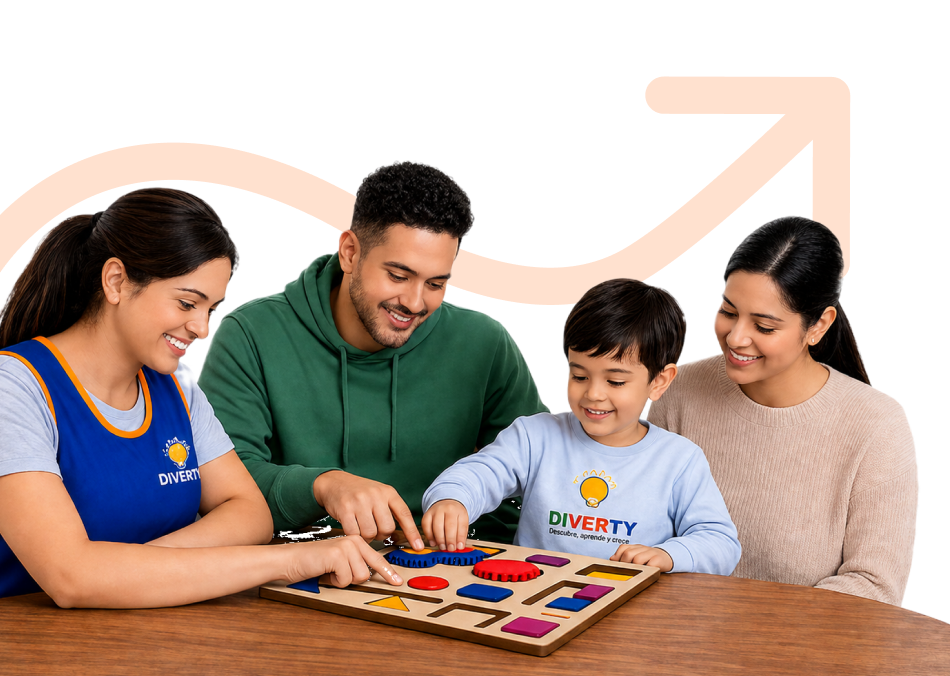
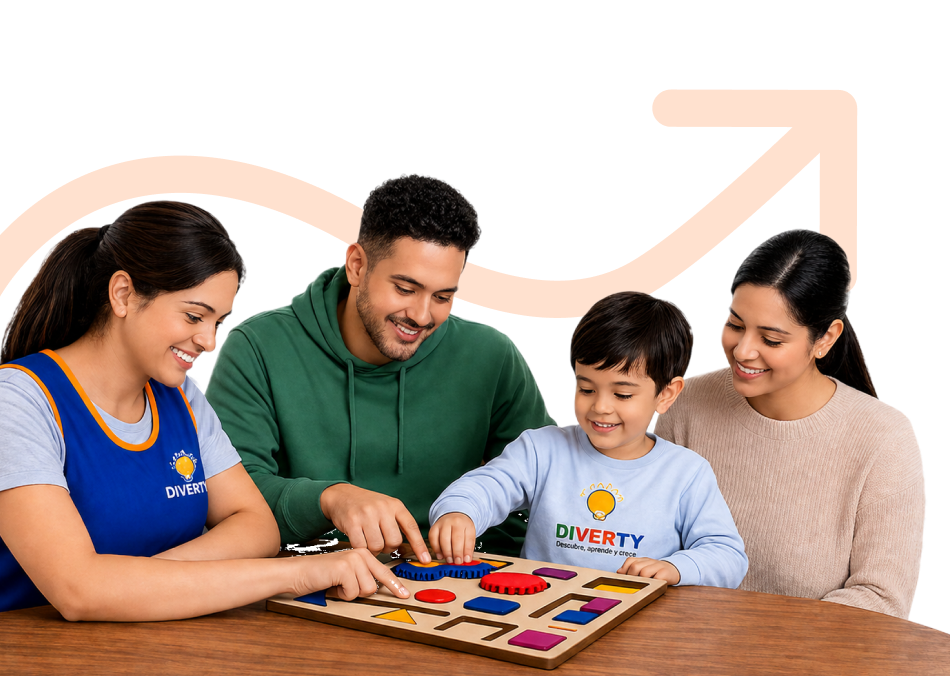
Unificar fondo peach en secciones de Nosotros y actualizar assets.
Aplica el mismo tono #FFF5F0 a Nuestra fundadora e Impacto, y renueva imágenes del hero de Nosotros y la sección de enfoque en inicio.

diff --git a/src/data/nosotrosPage.ts b/src/data/nosotrosPage.ts
@@ -23,6 +23,9 @@ export const nosotrosHero = {
   },
 } as const;
 
+/** Fondo peach de bandas tipo “Impacto que buscamos” / footer. */
+export const NOSOTROS_SECTION_BG_PEACH = "bg-[#FFF5F0]";
+
 export type NosotrosSplitBlock = {
   id: string;
   title: string;
@@ -34,6 +37,8 @@ export type NosotrosSplitBlock = {
   image: { src: string; alt: string };
   /** Si true, la imagen va a la izquierda (segundo bloque del mock). */
   imageLeft: boolean;
+  /** Clase Tailwind del fondo de la sección. */
+  sectionBgClass?: string;
 };
 
 export const nosotrosSplitSections: NosotrosSplitBlock[] = [
@@ -48,6 +53,7 @@ export const nosotrosSplitSections: NosotrosSplitBlock[] = [
       alt: "Docente acompañando a dos niños en una actividad guiada",
     },
     imageLeft: false,
+    sectionBgClass: NOSOTROS_SECTION_BG_PEACH,
   },
   {
     id: "impacto",
@@ -60,6 +66,7 @@ export const nosotrosSplitSections: NosotrosSplitBlock[] = [
       alt: "Madre sosteniendo a un niño sonriente",
     },
     imageLeft: true,
+    sectionBgClass: NOSOTROS_SECTION_BG_PEACH,
   },
   {
     id: "fundadora",
@@ -78,6 +85,7 @@ export const nosotrosSplitSections: NosotrosSplitBlock[] = [
       alt: "Fundadora de Diverty en su espacio de trabajo con laptop y cuaderno",
     },
     imageLeft: false,
+    sectionBgClass: NOSOTROS_SECTION_BG_PEACH,
   },
 ];
 

diff --git a/src/components/nosotros/SplitSection.tsx b/src/components/nosotros/SplitSection.tsx
@@ -1,5 +1,8 @@
 import { motion, useReducedMotion } from "framer-motion";
-import type { NosotrosSplitBlock } from "../../data/nosotrosPage";
+import {
+  NOSOTROS_SECTION_BG_PEACH,
+  type NosotrosSplitBlock,
+} from "../../data/nosotrosPage";
 import {
   defaultViewport,
   fadeInUp,
@@ -26,9 +29,11 @@ export default function SplitSection({ block }: Props) {
       ? slideInLeftSm
       : slideInRightSm;
 
+  const sectionBg = block.sectionBgClass ?? NOSOTROS_SECTION_BG_PEACH;
+
   return (
     <section
-      className="scroll-mt-28 bg-[#FFF5F0] py-14 md:py-20"
+      className={`scroll-mt-28 py-14 md:py-20 ${sectionBg}`}
       aria-labelledby={`nosotros-${block.id}-title`}
     >
       <div className="container">

diff --git a/src/data/familiesHome.ts b/src/data/familiesHome.ts
@@ -2,7 +2,7 @@
 
 import type { CourseTab } from "./estrategia";
 import imgHero from "../assets/prototype-inicio/inicio_seccion_hero_1.png";
-import imgEnfoque from "../assets/prototype-inicio/inicio_seccion_enfoque_1.webp";
+import imgEnfoque from "../assets/prototype-inicio/inicio_seccion_enfoque_1.png";
 import imgComo1 from "../assets/prototype-inicio/inicio_seccion_como-funciona_1.webp";
 import imgComo2 from "../assets/prototype-inicio/inicio_seccion_como-funciona_2.webp";
 import imgComo3 from "../assets/prototype-inicio/inicio_seccion_como-funciona_3.webp";
